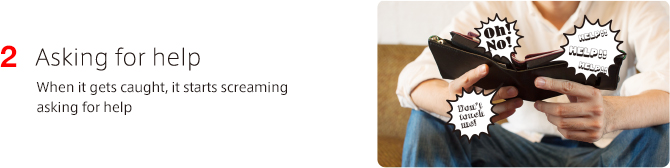
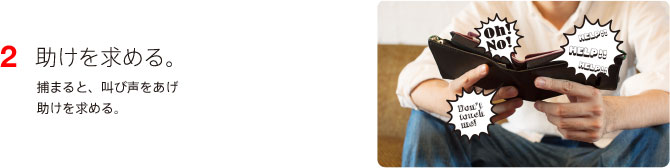
jp画像差し替え

Changed region(s): [[0.0, 0.2679, 0.2985, 0.4167], [0.0299, 0.4762, 0.4478, 0.5655], [0.0299, 0.5952, 0.209, 0.6845]]

diff --git a/jp/award.html b/jp/award.html
@@ -90,32 +90,32 @@
       </div>
       <div class="column">
         <h2 class="problem"><img src="img-award/h2_problem.gif" width="772" height="41" alt="PROBLEM"></h2>
-        <p><img src="img-award/column_text_1_vrl.gif" width="754" height="174" alt="Saving money is a challenge for humans. Considering the fact that people have failed with various saving techniques, it is somewhat similar to dieting. In order to solve the challenge, the bookkeeping app “Zaim” has brought in fun and wise way of saving money managed by smartphones. However, no matter how good we are at budget control, humans cannot help, but often waste their money. We came to the conclusion that the problem may lie in wallets that easily allow people to unfold and use it. Therefore, to show the function of Zaim more easily, we invented a totally new wallet."></p>
+        <p><img src="img-award/column_text_1_vrl.gif" width="715" height="197" alt="Saving money is a challenge for humans. Considering the fact that people have failed with various saving techniques, it is somewhat similar to dieting. In order to solve the challenge, the bookkeeping app “Zaim” has brought in fun and wise way of saving money managed by smartphones. However, no matter how good we are at budget control, humans cannot help, but often waste their money. We came to the conclusion that the problem may lie in wallets that easily allow people to unfold and use it. Therefore, to show the function of Zaim more easily, we invented a totally new wallet."></p>
       </div>
       <div class="column">
         <h2 class="solution"><img src="img-award/h2_solution.gif" width="772" height="42" alt="SOLUTION"></h2>
         <div class="left">
-          <p class="solution"><img src="img-award/column_text_2.gif" width="323" height="261" alt="We invented “The Living Wallet,” a wallet that can think of its own. The structure of the living wallet is very simple. User’s financial situation is collected in conjunction with API of bookkeeping app, “Zaim.” It automatically changes its behavior (mode) depending on your balance. If the user is low on funds, the wallet turns “Save mode.” In contrast, if the user has financial legroom, such as the day after pay day, the wallet becomes “consumption mode.”"></p>
+          <p class="solution"><img src="img-award/column_text_2.gif" width="439" height="239" alt="We invented “The Living Wallet,” a wallet that can think of its own. The structure of the living wallet is very simple. User’s financial situation is collected in conjunction with API of bookkeeping app, “Zaim.” It automatically changes its behavior (mode) depending on your balance. If the user is low on funds, the wallet turns “Save mode.” In contrast, if the user has financial legroom, such as the day after pay day, the wallet becomes “consumption mode.”"></p>
         </div>
         <div class="right"><img src="img-award/column_thumb_1.jpg" width="271" height="302" alt=""></div>
       </div>
       <div class="column">
-        <h3 class="mode1"><img src="img-award/h3_saving-mode.gif" width="753" height="22" alt="Saving mode"></h3>
+        <h3 class="mode1"><img src="img-award/h3_saving-mode.gif" width="754" height="19" alt="Saving mode"></h3>
         <p class="step"><img src="img-award/column_mode_1_thumb_1.jpg" width="670" height="168" alt="1. Evasion - The wallet apprehends any individual around and evades"></p>
         <p class="step"><img src="img-award/column_mode_1_thumb_2.jpg" width="670" height="168" alt="2. Asking for help - When it gets caught, it starts screaming asking for help"></p>
         <p class="step"><img src="img-award/column_mode_1_thumb_3.jpg" width="670" height="170" alt="3. Last resort - If you still try to use some money, as a last resort, the wallet sends a text message to your parents asking for help. It is always difficult to go against your parents."></p>
       </div>
       <div class="column">
-        <h3 class="mode2"><img src="img-award/h3_consumption-mode.gif" width="753" height="21" alt="Consumption mode"></h3>
+        <h3 class="mode2"><img src="img-award/h3_consumption-mode.gif" width="743" height="18" alt="Consumption mode"></h3>
         <p class="step"><img src="img-award/column_mode_2_thumb_1.jpg" width="670" height="169" alt="1. Encouraging spending - When the budget shows favorable balance, we think you should consume for the economy. In this case, living wallet stimulates your material desire by reading out Amazon’s popular products ranking. "></p>
       </div>
       <div class="column bottom">
         <h2 class="result"><img src="img-award/h2_result.gif" width="772" height="46" alt="RESULT"></h2>
         <div class="left">
-          <p class="result"><img src="img-award/column_text_3.gif" width="414" height="273" alt="After we posted the product video on Youtube, “Living Wallet” became viral across the world. “Living Wallet” was featured in some of the biggest media in the world, including BBC, CNN, ABC, Discovery Channel, Daily mail, Mashable, and Creators Project, despite the fact that the budget was only 1 million yen with no PR fee. As a result, the name of the product, “Zaim,” and its message ”wise and fun way of saving” became widely known to people all over the world. It ended up that the number of users has become more than quadruple compared with the previous year."></p>
+          <p class="result"><img src="img-award/column_text_3.gif" width="389" height="202" alt="After we posted the product video on Youtube, “Living Wallet” became viral across the world. “Living Wallet” was featured in some of the biggest media in the world, including BBC, CNN, ABC, Discovery Channel, Daily mail, Mashable, and Creators Project, despite the fact that the budget was only 1 million yen with no PR fee. As a result, the name of the product, “Zaim,” and its message ”wise and fun way of saving” became widely known to people all over the world. It ended up that the number of users has become more than quadruple compared with the previous year."></p>
         </div>
         <div class="right"><img src="img-award/column_thumb_2.jpg" width="279" height="275" alt=""></div>
-        <p class="result"><img src="img-award/column_text_4.gif" width="607" height="44" alt="This is a totally new approach to spend money for those who are not good at saving, realized by the power of technology."></p>
+        <p class="result"><img src="img-award/column_text_4.gif" width="421" height="39" alt="This is a totally new approach to spend money for those who are not good at saving, realized by the power of technology."></p>
       </div>
     </div>
     <footer id="footer">

diff --git a/jp/css/style.css b/jp/css/style.css
@@ -76,7 +76,7 @@ body {
         #wrapper #wrapper_inner #contents .column p.solution {
           margin: 0 0 0 12px; }
         #wrapper #wrapper_inner #contents .column p.result {
-          margin: 8px 0 35px 12px; }
+          margin: 8px 0 30px 12px; }
 
       #wrapper #wrapper_inner #contents .top {
         margin-top: 68px; }
